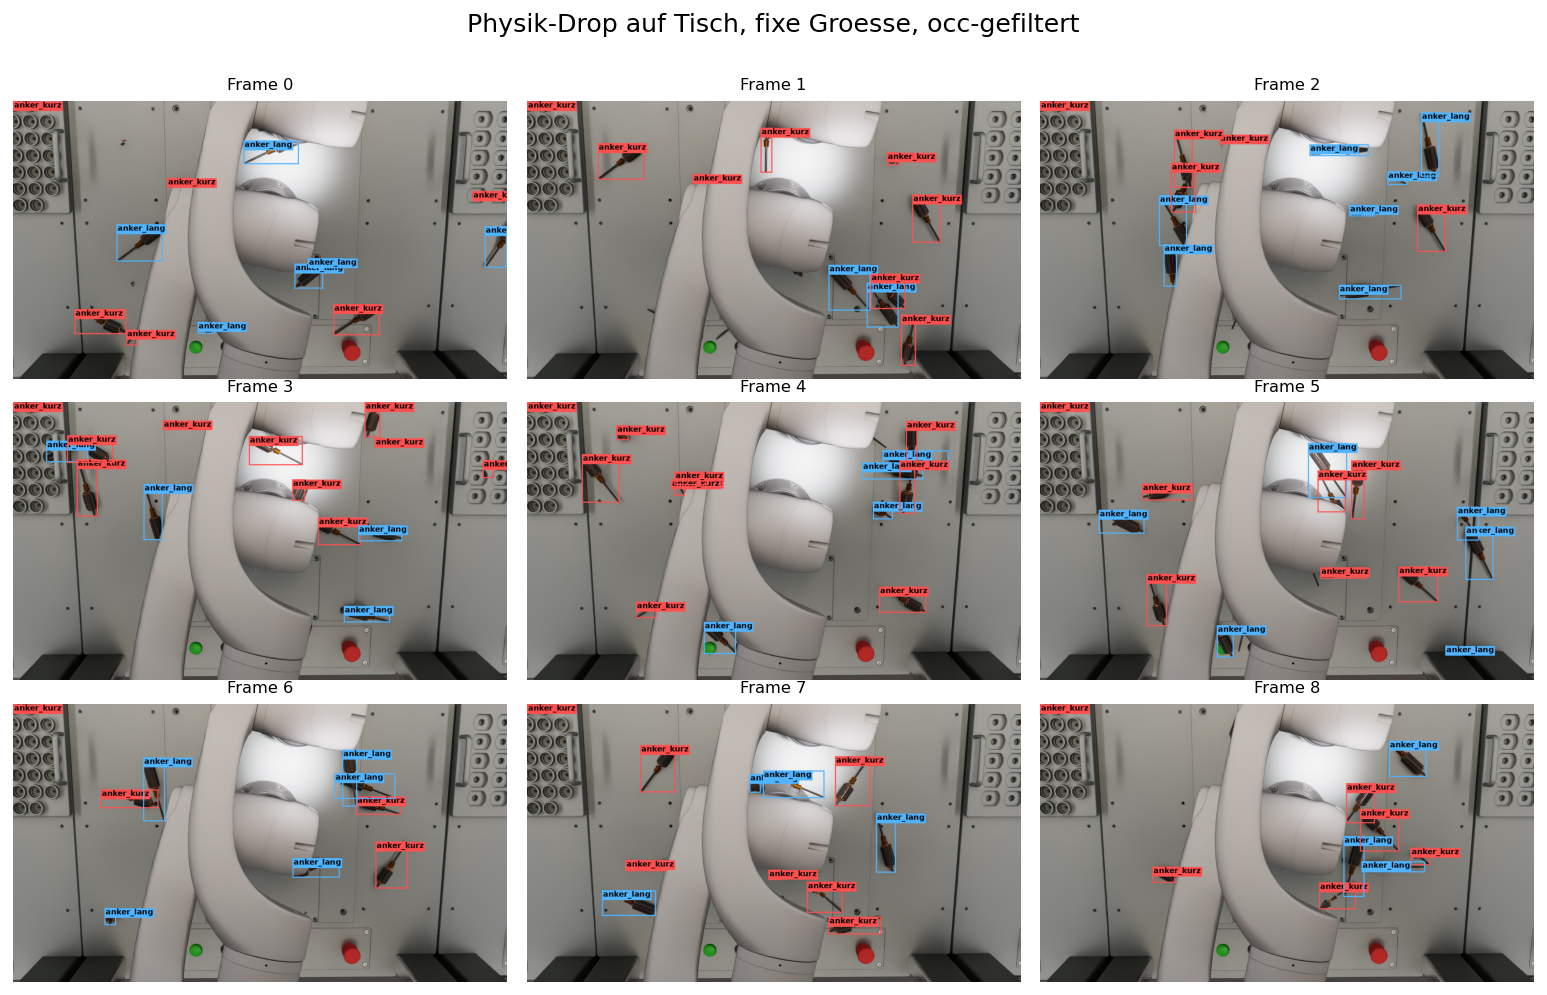
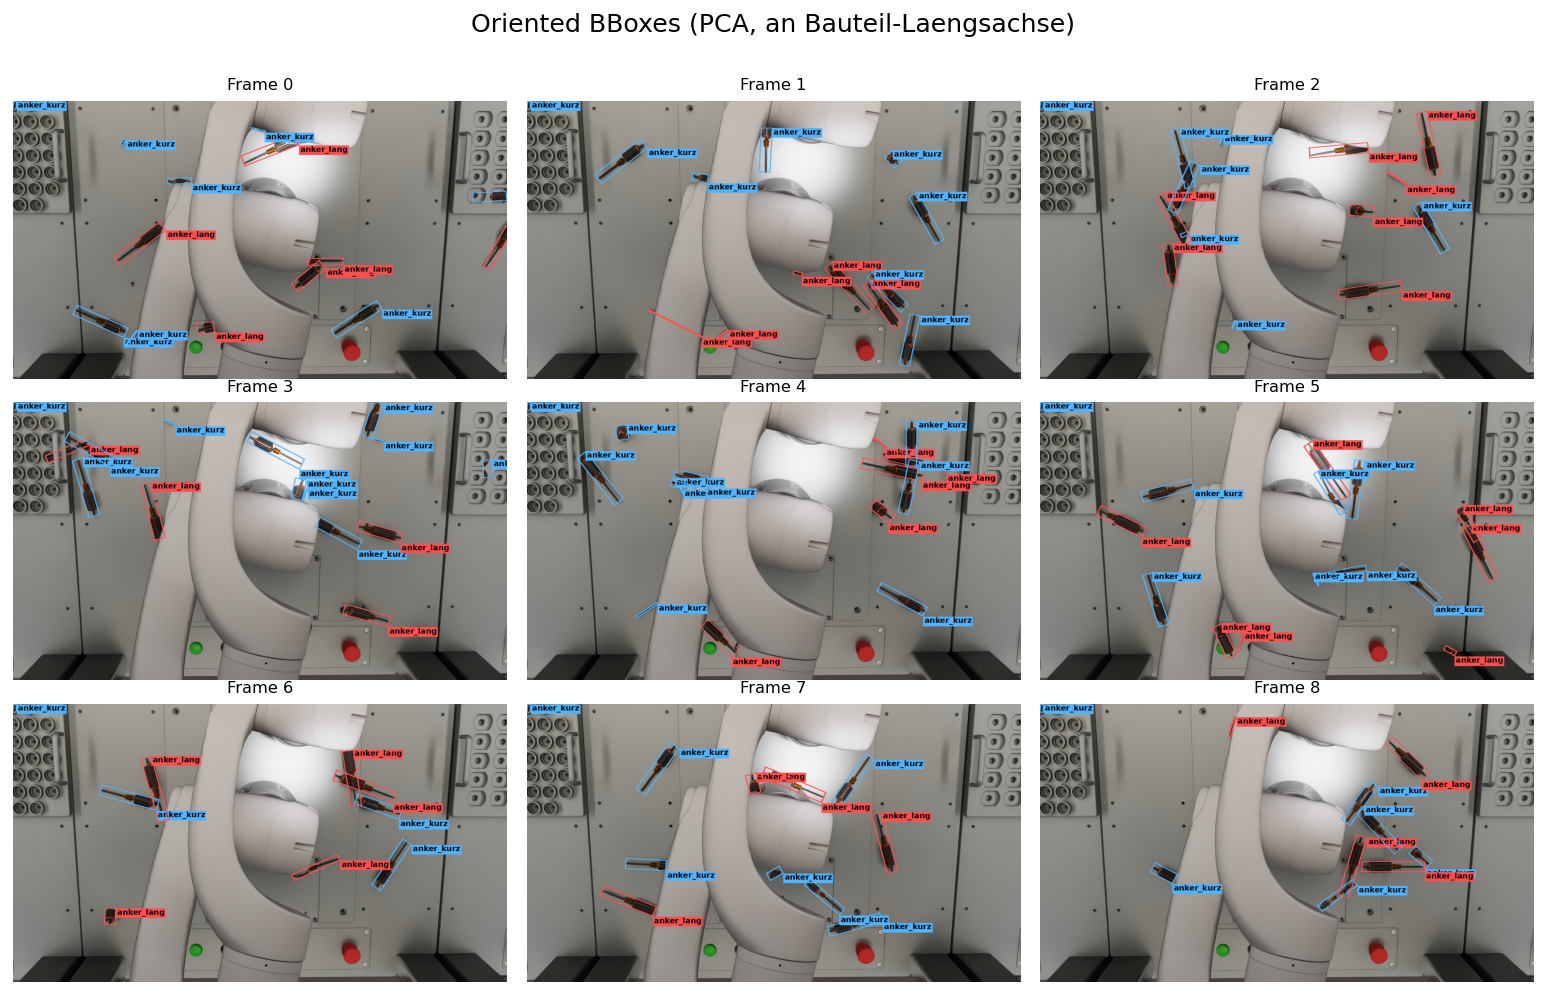
feat(sim): oriented 2D bounding boxes (rotated to part axis)
- run_scene.py: compute_oriented_boxes() — PCA over each part's instance mask
  gives a box aligned to the part's long axis (occlusion-robust, numpy only);
  written to obb_2d_<idx>.json per frame
- visualize_labels.py: draw oriented boxes (polygons) when obb_2d_*.json exists,
  axis-aligned fallback otherwise
- README: showcase montage updated to the oriented-box output

diff --git a/sim_code/run_scene.py b/sim_code/run_scene.py
@@ -14,8 +14,64 @@ instance + depth.
         --camera /World/Zivid --spawn tray --num-objects 6
 """
 import argparse
+import json
+import math
 import os
 import time
+
+
+def compute_oriented_boxes(inst, sem, sem_id2label, part_classes, min_pixels=80):
+    """Oriented 2D boxes per part instance via PCA on the segmentation masks.
+
+    Aligns each box to the part's principal (long) axis, so a part lying at an
+    angle gets a rotated box hugging it — not the axis-aligned enclosing box.
+    Uses only the visible instance pixels, so it is occlusion-robust.
+    """
+    import numpy as np
+    boxes = []
+    if inst is None or sem is None:
+        return boxes
+    inst = np.asarray(inst)
+    sem = np.asarray(sem)
+    if inst.ndim > 2:
+        inst = inst[..., 0]
+    if sem.ndim > 2:
+        sem = sem[..., 0]
+    for iid in np.unique(inst):
+        if int(iid) == 0:
+            continue
+        mask = inst == iid
+        n = int(mask.sum())
+        if n < min_pixels:
+            continue
+        sids, counts = np.unique(sem[mask], return_counts=True)
+        sid = int(sids[counts.argmax()])
+        cls = sem_id2label.get(str(sid), {}).get("class", "")
+        if cls.lower() not in part_classes:
+            continue
+        ys, xs = np.nonzero(mask)
+        pts = np.stack([xs, ys], axis=1).astype(np.float64)
+        c = pts.mean(0)
+        d = pts - c
+        cov = (d.T @ d) / max(len(d) - 1, 1)
+        evals, evecs = np.linalg.eigh(cov)
+        major = evecs[:, int(evals.argmax())]
+        minor = evecs[:, int(evals.argmin())]
+        pa, pi = d @ major, d @ minor
+        a0, a1 = float(pa.min()), float(pa.max())
+        i0, i1 = float(pi.min()), float(pi.max())
+        corners = [c + major * a0 + minor * i0, c + major * a1 + minor * i0,
+                   c + major * a1 + minor * i1, c + major * a0 + minor * i1]
+        boxes.append({
+            "class": cls,
+            "corners": [[round(float(p[0]), 1), round(float(p[1]), 1)] for p in corners],
+            "center": [round(float(c[0]), 1), round(float(c[1]), 1)],
+            "angle_deg": round(math.degrees(math.atan2(float(major[1]), float(major[0]))), 1),
+            "length_px": round(a1 - a0, 1),
+            "width_px": round(i1 - i0, 1),
+            "area_px": n,
+        })
+    return boxes
 
 
 def log(m):
@@ -229,6 +285,19 @@ def main():
         rep.orchestrator.step(rt_subframes=16)
         data = {k: a.get_data() for k, a in annots.items()}
         dg.save_output(data, ridx, args.output)
+
+        # oriented 2D boxes (PCA on the instance masks) -> obb_2d_<idx>.json
+        inst = data["instance_seg"]
+        seg = data["semantic_seg"]
+        obbs = compute_oriented_boxes(
+            inst["data"] if isinstance(inst, dict) else None,
+            seg["data"] if isinstance(seg, dict) else None,
+            seg["info"].get("idToLabels", {}) if isinstance(seg, dict) else {},
+            {"anker_kurz", "anker_lang"},
+        )
+        with open(os.path.join(args.output, f"obb_2d_{ridx:04d}.json"), "w") as f:
+            json.dump({"boxes": obbs}, f, indent=2)
+        log(f"  obb: {len(obbs)} oriented boxes")
 
     timeline.stop()
     log(f"done -> {args.output}")

diff --git a/sim_code/visualize_labels.py b/sim_code/visualize_labels.py
@@ -18,6 +18,12 @@ _COLORS = [
     (220, 110, 255), (255, 140, 50), (60, 220, 220), (255, 90, 170),
 ]
 
+_CLASS_COLORS = {"anker_kurz": (80, 180, 255), "anker_lang": (255, 80, 80)}
+
+
+def _class_color(cls):
+    return _CLASS_COLORS.get(cls.lower(), (90, 230, 120))
+
 
 def _font(size):
     for p in (
@@ -34,6 +40,24 @@ def annotate(out_dir, idx, font, max_occlusion=1.0):
     bb_path = os.path.join(out_dir, f"bbox_2d_{idx:04d}.json")
     img = Image.open(rgb_path).convert("RGB")
     draw = ImageDraw.Draw(img)
+
+    # Prefer oriented boxes (obb_2d_*.json) — rotated to the part's long axis.
+    obb_path = os.path.join(out_dir, f"obb_2d_{idx:04d}.json")
+    if os.path.exists(obb_path):
+        boxes = json.load(open(obb_path)).get("boxes", [])
+        for b in boxes:
+            col = _class_color(b["class"])
+            pts = [(x, y) for x, y in b["corners"]]
+            draw.polygon(pts, outline=col, width=3)
+            lx, ly = pts[0]
+            tb = draw.textbbox((lx, ly), b["class"], font=font)
+            draw.rectangle([tb[0], tb[1] - 3, tb[2] + 5, tb[3] + 1], fill=col)
+            draw.text((lx + 3, ly - 2), b["class"], fill=(0, 0, 0), font=font)
+        out = os.path.join(out_dir, f"annotated_{idx:04d}.png")
+        img.save(out)
+        print(f"  {os.path.basename(out)}  ({len(boxes)} oriented boxes)")
+        return out
+
     bb = json.load(open(bb_path))
     id2lab = bb["info"]["idToLabels"]
 

diff --git a/README.md b/README.md
@@ -9,8 +9,9 @@ them.
 
 Synthetic top-down capture from the real Zivid camera in the assembled cell
 (LARA5 robot arm in frame), parts physics-dropped and scattered across the
-table at fixed real-world scale, with occlusion-filtered 2D labels — 9 frames
-showing the physics variation:
+table at fixed real-world scale, with **oriented 2D bounding boxes** (rotated to
+each part's long axis, PCA over the instance mask) — 9 frames showing the
+physics variation:
 
 ![SDG dataset preview](docs/sdg-dataset-preview.png)
 
